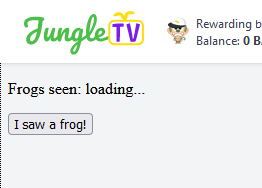
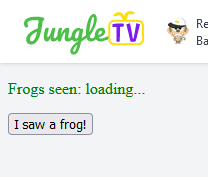
Fix minor issue with example code

Changed region(s): [[0.0, 0.339, 1.0, 1.0], [0.0865, 0.0565, 0.7212, 0.3107], [0.75, 0.0847, 1.0, 0.2542]]

diff --git a/getting-started/example_counter.md b/getting-started/example_counter.md
@@ -72,7 +72,9 @@ Enter the following code on `counter.html`, where we define the layout of the pa
     <script type="text/javascript" src="client.js"></script>
 </head>
 <body>
-    <p>Frogs seen: <span id="counterSpan">loading...</span></p>
+    <p style="color: green">
+        Frogs seen: <span id="counterSpan">loading...</span>
+    </p>
     <p>
         <button type="button" id="incrementButton">I saw a frog!</button>
     </p>
